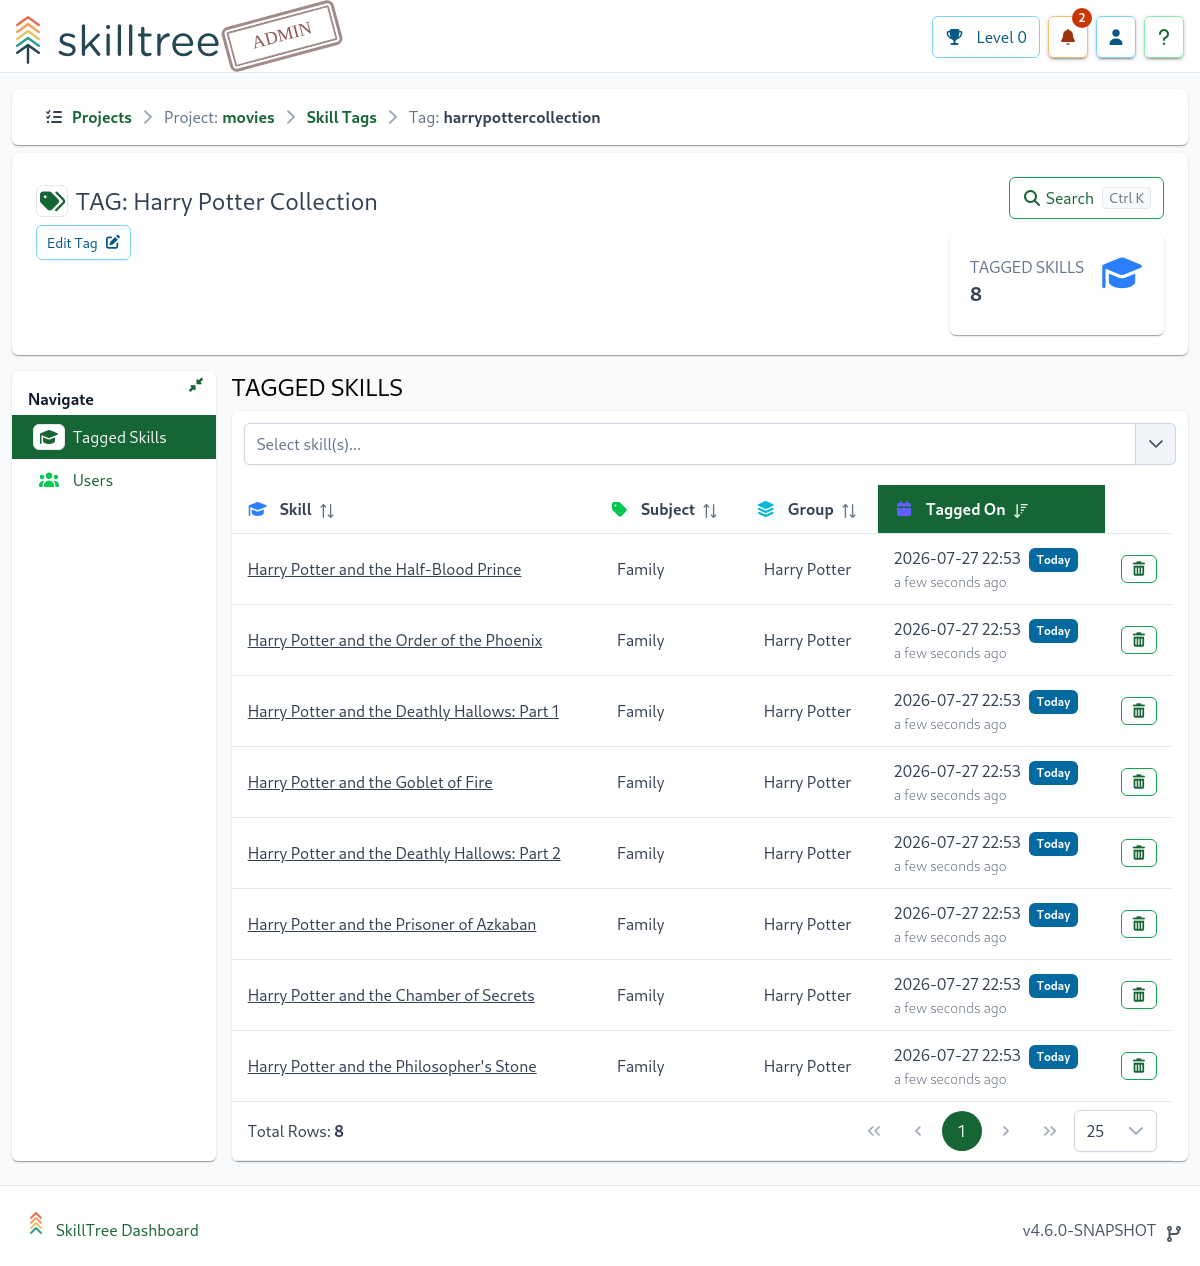
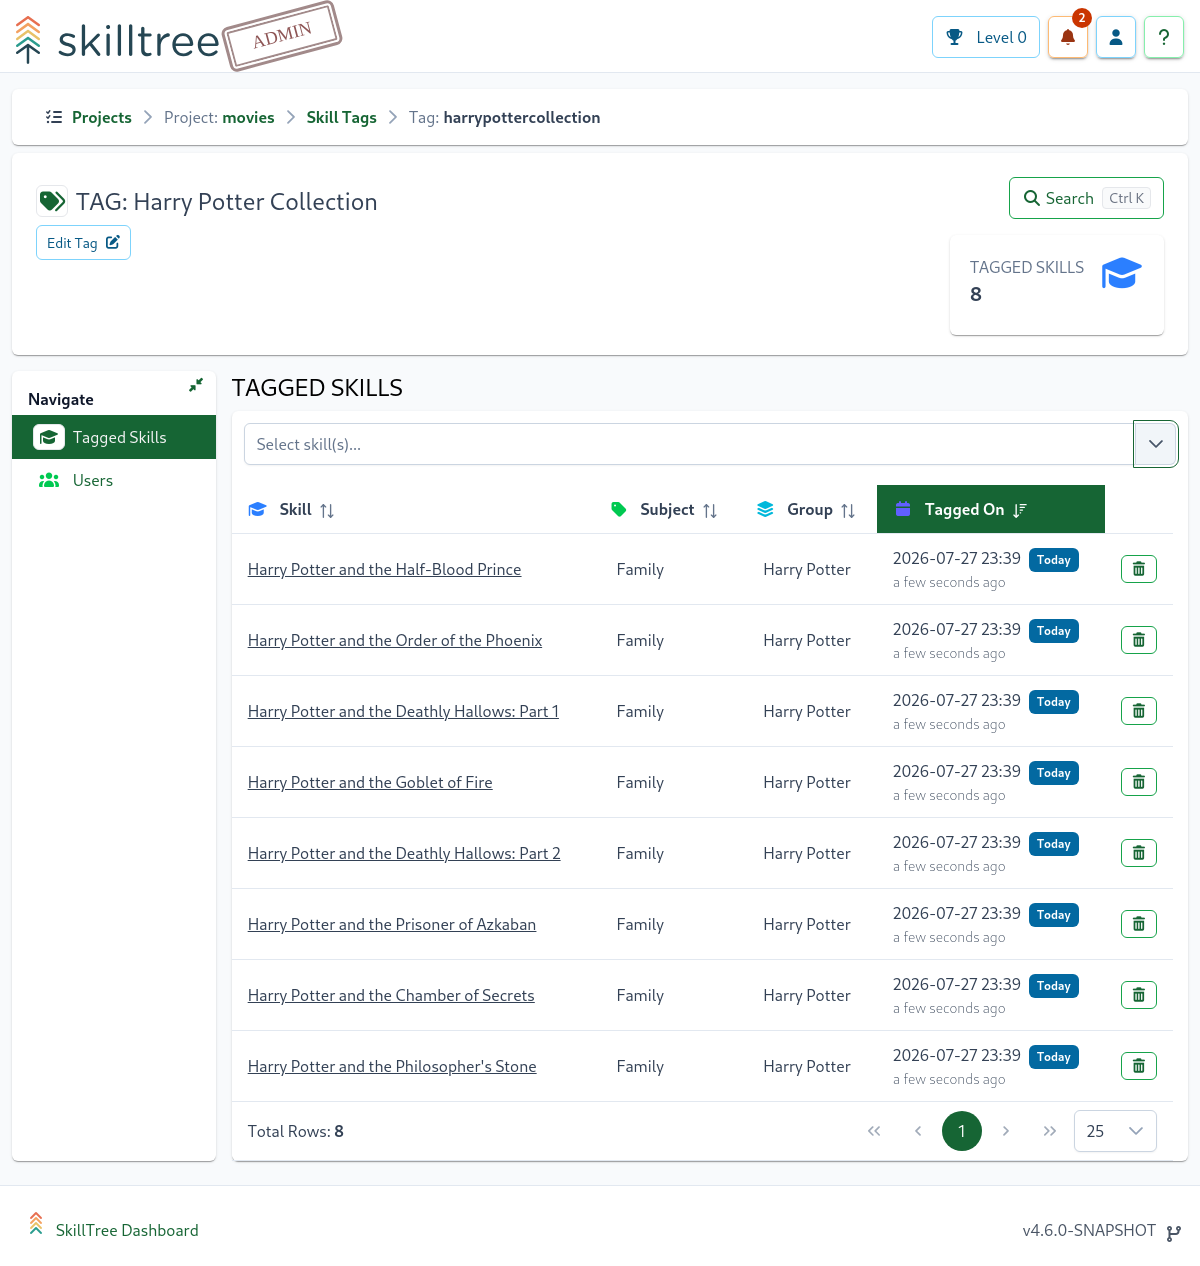
#359 - documented new project level skill tag management and user

diff --git a/cypress/e2e/admin.cy.js b/cypress/e2e/admin.cy.js
@@ -809,8 +809,6 @@ context('Admin: Generate Screenshots', () => {
       cy.get('[data-cy="saveDialogBtn"]').should('be.enabled')
       cy.get('[data-cy="saveDialogBtn"]').click();
 
-      cy.snap('page-skill-tags')
-
       cy.visit('/administrator/projects/movies/skill-tags/harrypottercollection');
       cy.get('[data-cy="noContent"]').contains('No Skills Added Yet...')
       cy.selectSkill('[data-cy="skillsSelector"]', 'HarryPotterandthePhilosophersStone');
@@ -823,6 +821,29 @@ context('Admin: Generate Screenshots', () => {
       cy.selectSkill('[data-cy="skillsSelector"]', 'HarryPotterandtheHalfBloodPrince');
 
       cy.snap('page-skill-tag')
+
+      cy.visit('/administrator/projects/movies/skill-tags/despicablemecollection');
+      cy.get('[data-cy="noContent"]').contains('No Skills Added Yet...')
+      cy.selectSkill('[data-cy="skillsSelector"]', 'Minions');
+      cy.selectSkill('[data-cy="skillsSelector"]', 'DespicableMe');
+      cy.selectSkill('[data-cy="skillsSelector"]', 'DespicableMe2');
+      cy.selectSkill('[data-cy="skillsSelector"]', 'DespicableMe3');
+
+
+      cy.visit('/administrator/projects/movies/skill-tags/thetwilightcollection');
+      cy.get('[data-cy="noContent"]').contains('No Skills Added Yet...')
+      cy.selectSkill('[data-cy="skillsSelector"]', 'TheTwilightSagaEclipse');
+      cy.selectSkill('[data-cy="skillsSelector"]', 'Twilight');
+      cy.selectSkill('[data-cy="skillsSelector"]', 'TheTwilightSagaNewMoon');
+      cy.selectSkill('[data-cy="skillsSelector"]', 'TheTwilightSagaBreakingDawnPart2');
+
+      cy.visit('/administrator/projects/movies/skill-tags/harrypottercollection/users');
+      cy.wait(1000)
+      cy.snap('page-skill-tag-users')
+
+      cy.visit('/administrator/projects/movies/skill-tags/');
+      cy.wait(1000)
+      cy.snap('page-skill-tags')
 
       cy.deleteSkillTag('harrypottercollection')
       cy.deleteSkillTag('despicablemecollection')

diff --git a/docs/dashboard/user-guide/skills-tags.md b/docs/dashboard/user-guide/skills-tags.md
@@ -1,23 +1,71 @@
 # Skill Tags
 
-Skill tagging is a feature that allows administrators to add one or more custom "tags" to skills.
-Adding tags to skills can help to categorize and group skills, giving users another way to search or filter a particular set of skills.
-Skill tags are visualized in the Skills Display to give users consuming the training another way to comprehend, categorize and filter skills.
+Skill Tags allow project administrators to add one or more custom tags to skills. Tags provide an additional way to categorize, group, search, and filter skills across a project.
 
+Skill Tags are also displayed in the Skills Display so trainees can more easily understand how skills relate to one another, discover related training, and filter skills by tag.
 
-::: note Dedicated Skill Tags Page
-There is now a dedicated Skill Tags page that provides a focused view for managing all skill tags across your project. There is also a dedicated
-Single Skill Tag management page that enables administrators to manage tagged skills with the particular tag
+::: note Project-Level Skill Tag Management
+Skill Tags are now managed at the project level. Administrators can use the dedicated Skill Tags page to view and manage all tags across a project, drill into a single tag to manage its associated skills, and review trainee progress for skills associated with a specific tag.
 :::
 
 ## Skill Tags Management Page
 
 ![Skill Tags Management Page](../../screenshots/admin/page-skill-tags.png)
 
-To manage skill tags access your project, navigate to ``Project -> Skill Tags``.  From this page you can view all skill tags, create new skill tags and delete existing tags.
+To manage Skill Tags, open your project and navigate to `Project -> Skill Tags`.
+
+From the Skill Tags page, administrators can:
+
+- View all Skill Tags defined in the project
+- Create new Skill Tags
+- Delete existing Skill Tags
+- Open a dedicated management page for a specific tag
+- Review how many skills are associated with each tag
+
+This page provides a centralized place to manage tags across the entire project instead of managing them only from an individual subject or skill context.
 
 ## Single Skill Tag Management Page
 
-Clicking on a skill tag name from the Skill Tags management page will bring you to the Single Skill Tag management page, where you can choose which skill(s) should include this tag, as well as update the Tag Value and Tag ID.
 ![Single Skill Tag Management](../../screenshots/admin/page-skill-tag.png)
 
+Click a Skill Tag name from the Skill Tags management page to open the Single Skill Tag management page.
+
+From this page, administrators can:
+
+- Add skills to the selected tag
+- Remove skills from the selected tag
+- View all skills currently associated with the tag
+- Edit the tag value
+- Edit the tag ID
+- Review user progress for project participants advancing through skills associated with the tag
+
+The Single Skill Tag management page is useful when maintaining a curated group of related skills, such as skills that belong to a specific collection, topic, technology area, curriculum track, or learning objective.
+
+## Editing Tag Values and Tag IDs
+
+Administrators can update both the display value and the ID of a Skill Tag.
+
+- **Tag Value** is the human-readable label displayed to administrators and trainees.
+- **Tag ID** is the unique identifier used internally and in URLs.
+
+When editing a tag, choose a clear and stable value that describes the group of skills it represents. If the tag is already in use, consider whether changing the tag value or ID could affect administrator workflows or references to that tag.
+
+## Viewing Trainee Progress by Skill Tag
+
+Skill Tags include project participant progress information for the skills associated with a specific tag. This allows administrators to review how users are advancing within a tagged collection of skills.
+
+This can be helpful for tracking progress across a specific training area, such as:
+
+- A curriculum module
+- A certification topic
+- A feature-specific training path
+- A collection of related skills
+- A technology or competency area
+
+![Single Skill Tag Users](../../screenshots/admin/page-skill-tag-users.png)
+
+## Skill Tags in the Skills Display
+
+Skill Tags are visible to trainees in the Skills Display. This gives trainees another way to understand, categorize, and filter available training.
+
+Tags can help trainees quickly identify related skills and focus on a particular set of training objectives.
